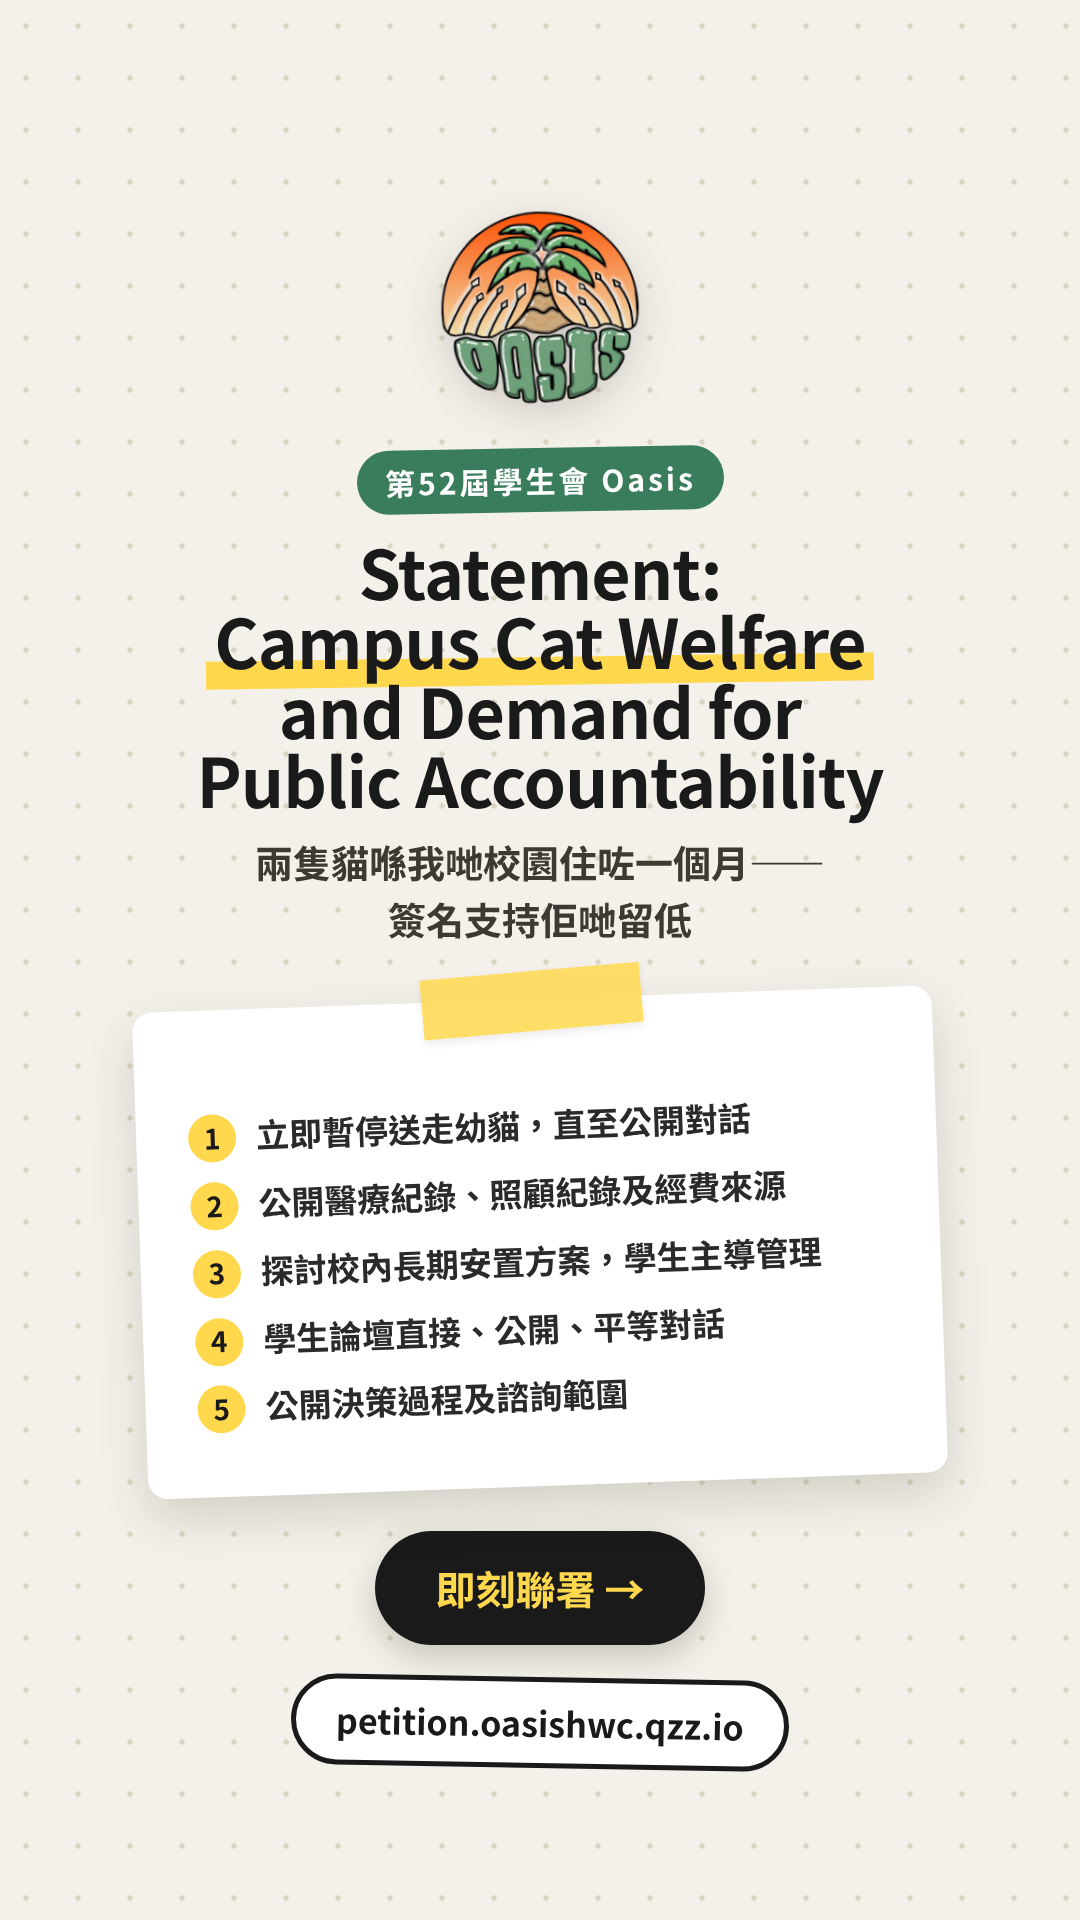
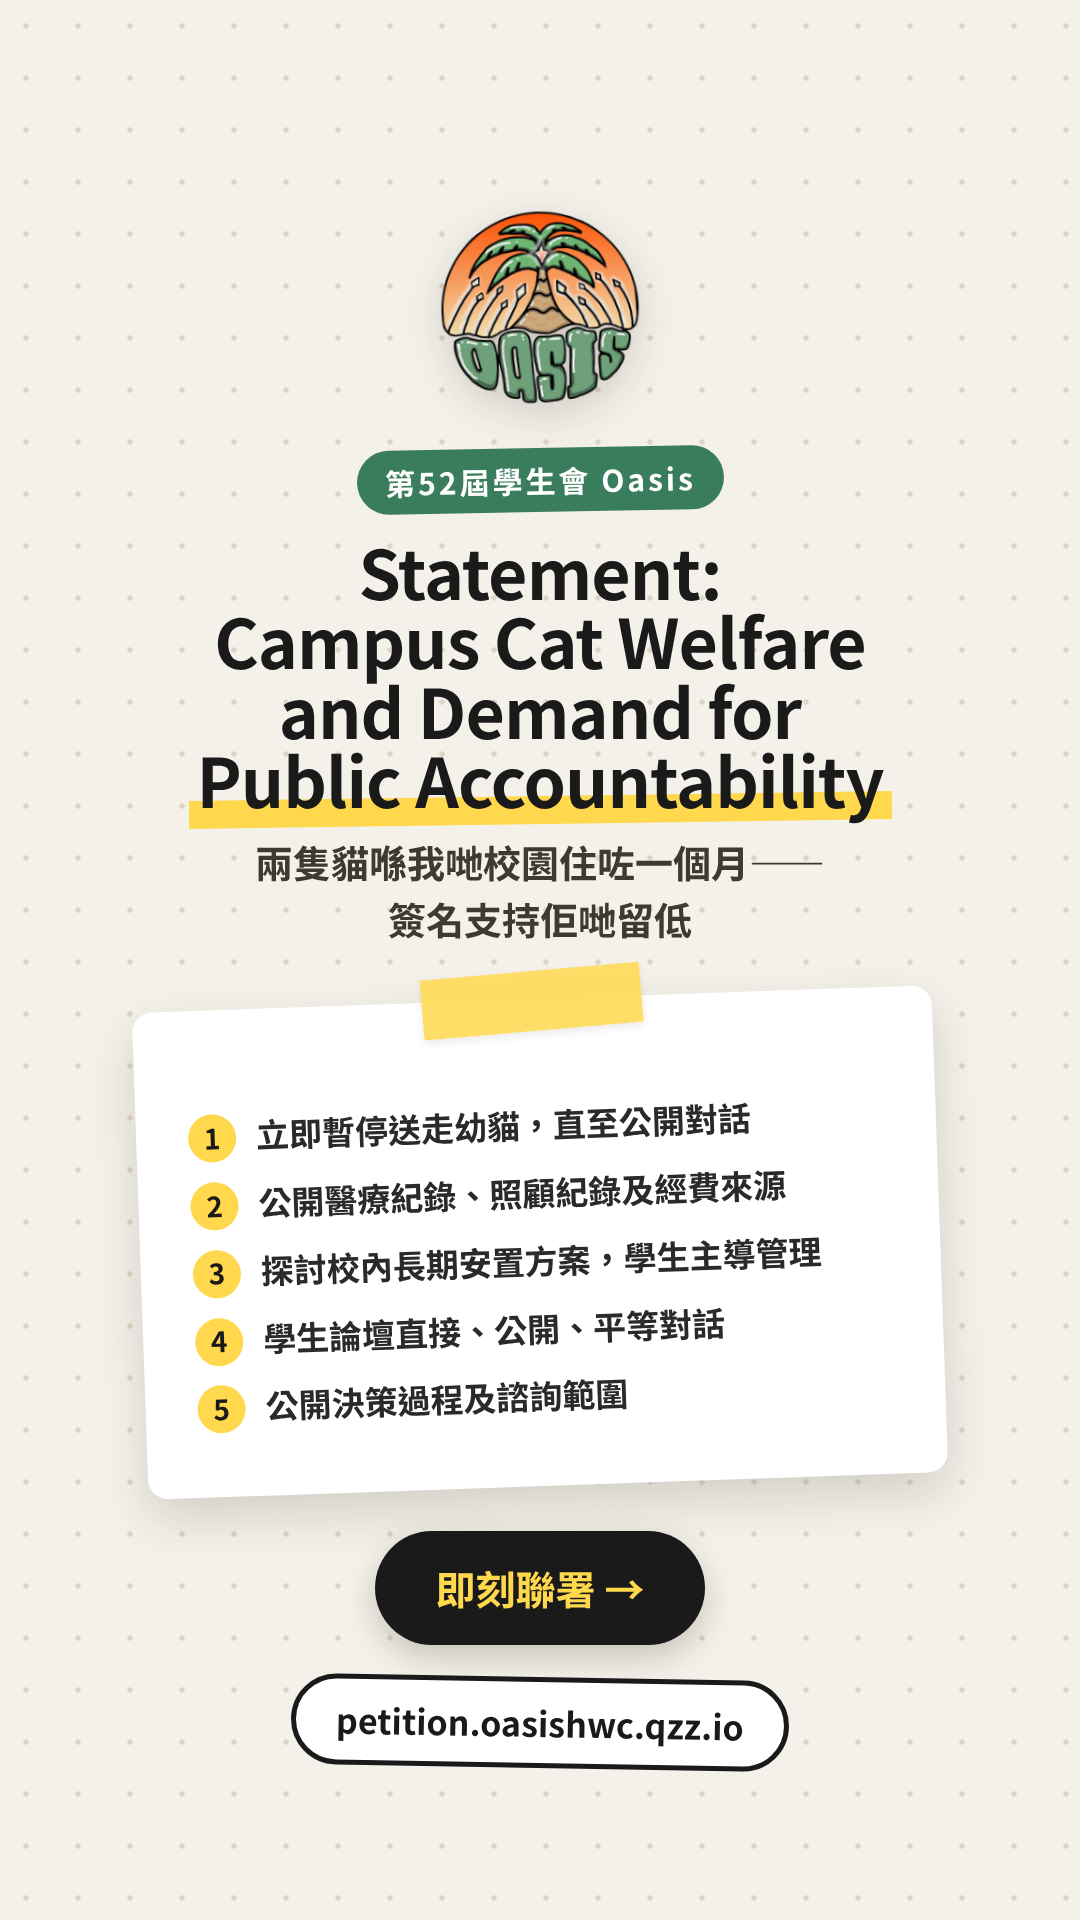
Move story card highlight to Public Accountability (highlight 移去 Public Accountability)

Changed region(s): [[0.1528, 0.4062, 0.825, 0.4375], [0.1833, 0.3438, 0.825, 0.375]]

diff --git a/public/story-card-oasis-src.html b/public/story-card-oasis-src.html
@@ -117,7 +117,7 @@
   <div class="card">
     <img class="logo" src="oasis-logo.png" alt="">
     <div class="asso">第52屆學生會 Oasis</div>
-    <h1 class="stmt">Statement:<br><span class="hl">Campus Cat Welfare</span><br>and Demand for<br>Public Accountability</h1>
+    <h1 class="stmt">Statement:<br>Campus Cat Welfare<br>and Demand for<br><span class="hl">Public Accountability</span></h1>
     <div class="sub">兩隻貓喺我哋校園住咗一個月——<br>簽名支持佢哋留低</div>
     <div class="tape-block">
       <div class="tape"></div>
